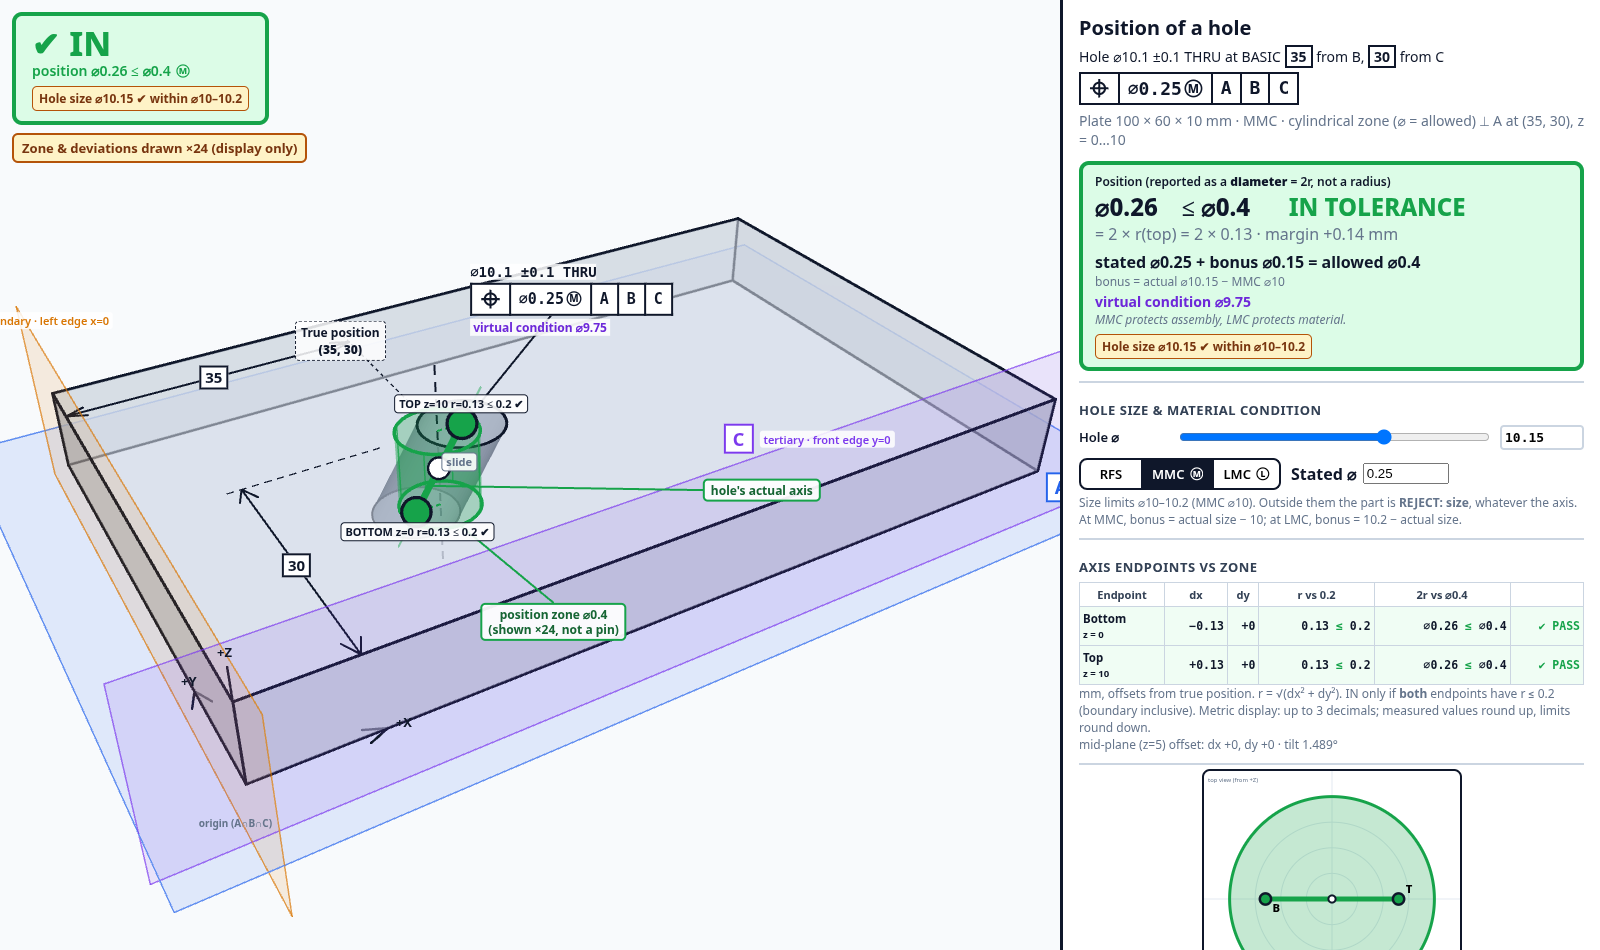
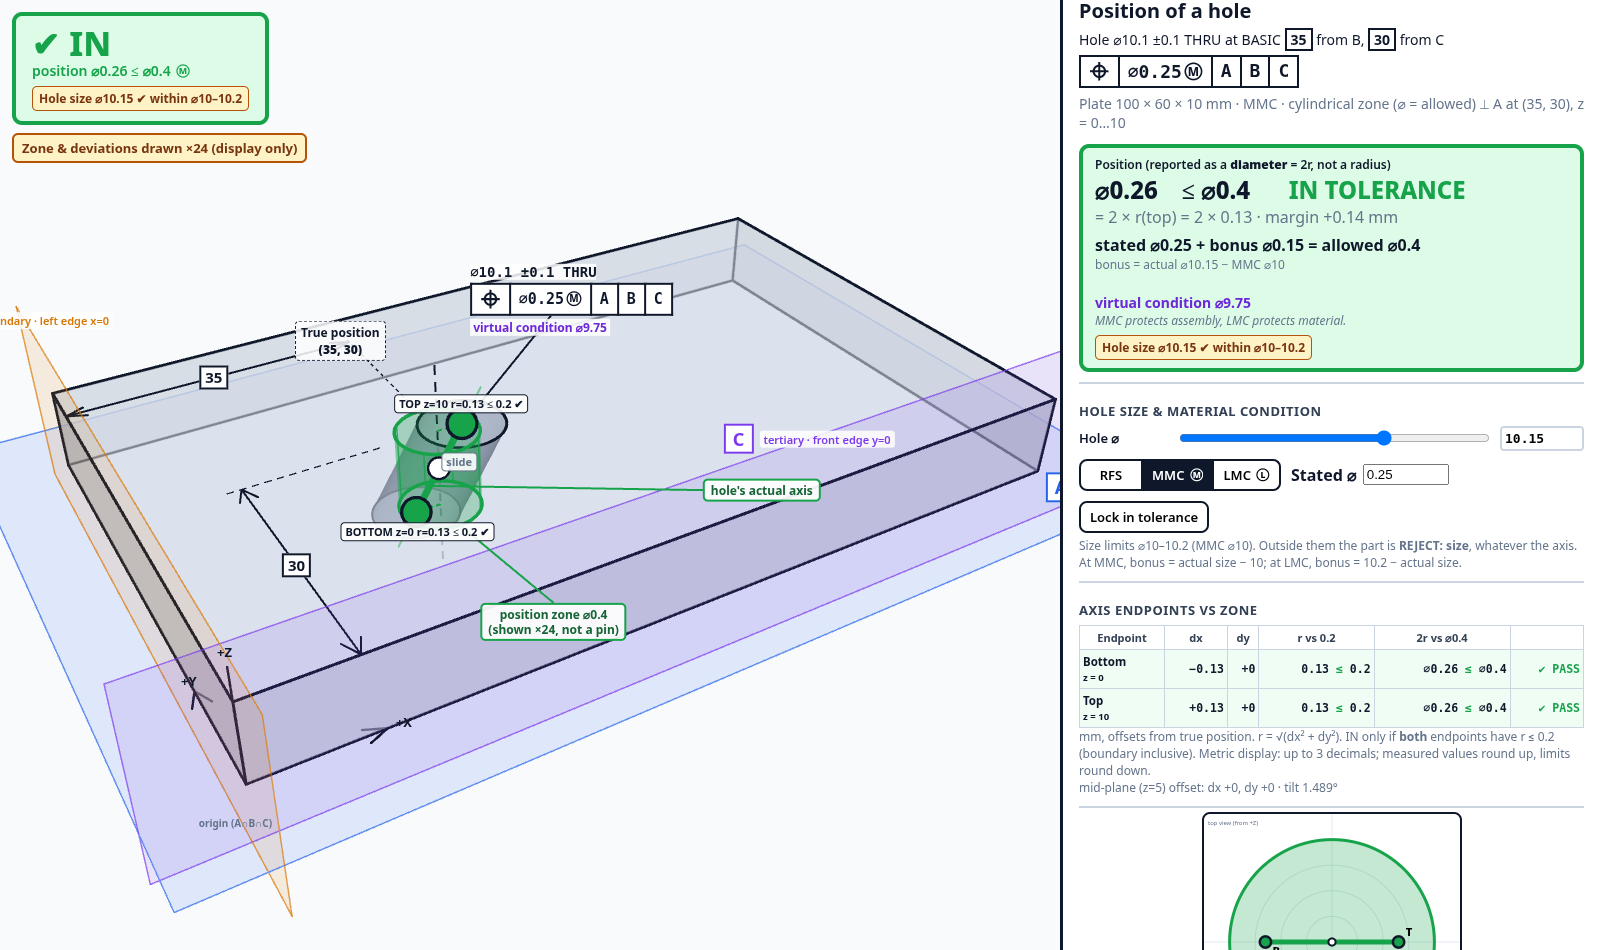
Lock in tolerance: per-endpoint drag clamp, no re-clamp on shrink + shrink note, inward-only projection when outside; tests and browser checks

Changed region(s): [[0.6562, 0.4274, 1.0, 1.0], [0.6562, 0.0, 1.0, 0.3968], [0.9375, 0.4579, 0.9688, 0.4884]]

diff --git a/src/main.js b/src/main.js
@@ -1,6 +1,6 @@
 // Wires state -> tolerance math -> 3D scene + UI readout.
 import { SPEC, VIEW, PRESETS } from './config.js';
-import { evaluatePart } from './tolerance.js';
+import { evaluatePart, allowedTolerance, lockDrag, shrinkCausedOut } from './tolerance.js';
 import { fcfHTML } from './fcf.js';
 import { createViewer, isPhone } from './viewer/scene.js';
 import { attachDrag } from './interaction.js';
@@ -18,6 +18,8 @@ const state = {
   size: SPEC.hole.sizeSlider.default, // actual hole diameter (mm)
   modifier: SPEC.position.modifier, // 'RFS' | 'MMC' | 'LMC'
   stated: SPEC.position.tolerance, // stated position tolerance ⌀ (mm), editable
+  lock: false, // "Lock in tolerance": user drags/tilts can't take an endpoint out of the allowed zone
+  shrinkFrom: null, // allowed ⌀ before a zone shrink that happened while locked (for the note)
 };
 const q3 = (v) => Math.round(v * 1e3) / 1e3; // UI inputs in 0.001 mm (metric display)
 const clampSize = (v) => q3(Math.max(SPEC.hole.sizeSlider.min, Math.min(SPEC.hole.sizeSlider.max, v)));
@@ -46,15 +48,16 @@ if (isPhone()) viewer.zoomToHole();
 document.getElementById('drawing-btn').addEventListener('click', () => { state.drawing = !state.drawing; refresh(); });
 const ui = createUI(document.getElementById('panel'), {
   clampOffset,
-  onChange: (patch) => setAxis(patch),
+  onChange: (patch) => setAxis(patch, { user: true }),
   onPreset: (id) => applyPreset(id),
   onMagnification: (m) => { state.magnification = m; refresh(); },
   onXray: (on) => { state.xray = on; refresh(); },
   onDrawing: (on) => { state.drawing = on; refresh(); },
-  onSize: (v) => { state.size = clampSize(v); refresh(); },
+  onSize: (v) => setSize(v),
   // A stated ⌀0 is only valid at MMC: block it at RFS (returns false = refused).
-  onModifier: (m) => { if (m === 'RFS' && state.stated <= 0) return false; state.modifier = m; refresh(); return true; },
-  onStated: (v) => { const s = clampStated(v); if (state.modifier === 'RFS' && s <= 0) return false; state.stated = s; refresh(); return true; },
+  onModifier: (m) => setModifier(m),
+  onStated: (v) => setStated(v),
+  onLock: (on) => setLock(on),
   onResetCamera: () => viewer.resetCamera(),
   onZoomHole: () => viewer.zoomToHole(),
 });
@@ -64,15 +67,42 @@ attachDrag({
   controls: viewer.controls,
   handles: viewer.handles,
   getState: () => state,
-  onChange: (patch) => setAxis(patch),
+  onChange: (patch) => setAxis(patch, { user: true }),
   clampOffset,
 });
 
-function setAxis(patch) {
-  if (patch.bottom) state.bottom = { ...state.bottom, ...patch.bottom };
-  if (patch.top) state.top = { ...state.top, ...patch.top };
+const allowedNow = () => allowedTolerance({ stated: state.stated, modifier: state.modifier, actualSize: state.size, mmc: SPEC.hole.mmc, lmc: SPEC.hole.lmc }).allowed;
+
+// user = a drag or tilt/offset control: clamped when locked. Presets are not.
+function setAxis(patch, { user = false } = {}) {
+  for (const k of ['bottom', 'top']) {
+    if (!patch[k]) continue;
+    const next = { ...state[k], ...patch[k] };
+    state[k] = user && state.lock ? lockDrag({ prev: state[k], next, allowed: allowedNow() }) : next;
+  }
+  // A preset moves the axis wholesale: any OUT is now the axis's doing. A locked
+  // drag can't push an outside endpoint further out, so the shrink note stays.
+  if (!user || !state.lock) state.shrinkFrom = null;
   refresh();
 }
+
+// Size / mode / stated changes never move the axis. If the zone shrinks while
+// locked, remember the previous allowed value so the note can explain an OUT.
+function changeZone(fn) {
+  const before = allowedNow();
+  const ok = fn();
+  if (ok === false) return false;
+  const now = allowedNow();
+  if (state.lock && now < before) state.shrinkFrom = Math.max(state.shrinkFrom ?? 0, before);
+  else if (now >= (state.shrinkFrom ?? Infinity)) state.shrinkFrom = null;
+  refresh();
+  return true;
+}
+const setSize = (v) => changeZone(() => { state.size = clampSize(v); });
+const setModifier = (m) => changeZone(() => { if (m === 'RFS' && state.stated <= 0) return false; state.modifier = m; });
+const setStated = (v) => changeZone(() => { const s = clampStated(v); if (state.modifier === 'RFS' && s <= 0) return false; state.stated = s; });
+const setLock = (on) => { state.lock = !!on; if (!state.lock) state.shrinkFrom = null; refresh(); };
+export const shrinkNoteFor = (s, res) => res.verdict === 'OUT' && shrinkCausedOut({ rBottom: res.bottom.r, rTop: res.top.r, allowedBefore: s.shrinkFrom, allowedNow: res.tolerance });
 
 function applyPreset(id) {
   const p = PRESETS.find((x) => x.id === id);
@@ -89,6 +119,7 @@ function refresh() {
   const btn = document.getElementById('drawing-btn');
   btn.setAttribute('aria-pressed', String(state.drawing));
   btn.textContent = state.drawing ? 'Hide drawing' : 'Show drawing';
+  last.shrinkNote = shrinkNoteFor(state, last);
   ui.render(state, last);
 }
 refresh();
@@ -101,9 +132,11 @@ window.gdt = {
   result: () => last,
   setMagnification: (m) => { state.magnification = m; refresh(); },
   setDrawing: (on) => { state.drawing = !!on; refresh(); },
-  setSize: (v) => { state.size = clampSize(v); refresh(); },
-  setModifier: (m) => { if (m === 'RFS' && state.stated <= 0) return false; state.modifier = m; refresh(); return true; },
-  setStated: (v) => { const s = clampStated(v); if (state.modifier === 'RFS' && s <= 0) return false; state.stated = s; refresh(); return true; },
+  setSize,
+  setModifier,
+  setLock,
+  setStated,
+  dragAxis: (patch) => setAxis(patch, { user: true }), // same path as a handle drag / tilt control
   _debug: { handles: viewer.handles, camera: viewer.camera, canvas: viewer.domElement, controls: viewer.controls },
   ready: true,
 };

diff --git a/tests/lock.test.js b/tests/lock.test.js
@@ -1,0 +1,84 @@
+import { test } from 'node:test';
+import assert from 'node:assert/strict';
+import { lockDrag, shrinkCausedOut, LOCK_EPS, evaluatePart, allowedTolerance } from '../src/tolerance.js';
+import { SPEC } from '../src/config.js';
+import { fmtAgainst, fmtLimit } from '../src/format.js';
+import { SHRINK_NOTE } from '../src/ui.js';
+
+const H = SPEC.hole;
+const TP = { x: 35, y: 30 };
+const r = (p) => Math.hypot(p.dx, p.dy);
+const allowedAt = (size, modifier, stated = 0.25) => allowedTolerance({ stated, modifier, actualSize: size, mmc: H.mmc, lmc: H.lmc }).allowed;
+const evalAx = (ax, size, modifier, stated = 0.25) => evaluatePart({
+  truePosition: TP, bottom: { x: TP.x + ax.bottom.dx, y: TP.y + ax.bottom.dy }, top: { x: TP.x + ax.top.dx, y: TP.y + ax.top.dy },
+  thickness: 10, stated, modifier, actualSize: size, mmc: H.mmc, lmc: H.lmc,
+});
+const O = { dx: 0, dy: 0 };
+
+test('clamp at the boundary: r <= allowed/2 − eps, direction kept; inside moves untouched', () => {
+  const c = lockDrag({ prev: O, next: { dx: 0.3, dy: 0.4 }, allowed: 0.25 });
+  assert.ok(r(c) <= 0.125 - LOCK_EPS && r(c) > 0.123);
+  assert.ok(Math.abs(c.dy / c.dx - 4 / 3) < 0.02, 'direction kept');
+  assert.deepEqual(lockDrag({ prev: O, next: { dx: 0.1, dy: -0.05 }, allowed: 0.25 }), { dx: 0.1, dy: -0.05 });
+  assert.deepEqual(lockDrag({ prev: O, next: { dx: 0.2, dy: 0 }, allowed: 0 }), { dx: 0, dy: 0 });
+});
+
+test('endpoints clamp separately: tilting right up to the edge works', () => {
+  const top = lockDrag({ prev: O, next: { dx: 0.4, dy: 0 }, allowed: 0.25 });
+  const bottom = lockDrag({ prev: O, next: { dx: -0.4, dy: 0 }, allowed: 0.25 });
+  assert.deepEqual([top, bottom], [{ dx: 0.124, dy: 0 }, { dx: -0.124, dy: 0 }]);
+  const v = evalAx({ top, bottom }, 10.1, 'RFS');
+  assert.equal(v.verdict, 'IN');
+  assert.ok(v.tilt > 1.4, 'full edge-to-edge tilt allowed');
+});
+
+test('locked drags + size OK -> verdict always IN (random drag sequences, all modes)', () => {
+  let seed = 7; const rnd = () => ((seed = (seed * 16807) % 2147483647) / 2147483647) * 0.8 - 0.4;
+  for (const m of ['RFS', 'MMC', 'LMC']) for (const s of [10, 10.05, 10.123, 10.2]) for (const st of m === 'RFS' ? [0.001, 0.25] : [0, 0.25]) {
+    const allowed = allowedAt(s, m, st); let ax = { bottom: O, top: O };
+    for (let i = 0; i < 60; i++) {
+      const k = i % 2 ? 'top' : 'bottom';
+      ax = { ...ax, [k]: lockDrag({ prev: ax[k], next: { dx: Math.round(rnd() * 1e3) / 1e3, dy: Math.round(rnd() * 1e3) / 1e3 }, allowed }) };
+      const v = evalAx(ax, s, m, st);
+      assert.equal(v.verdict, 'IN', `${m} ${s} ${st} step ${i}`);
+      // display: the shown position never exceeds the shown limit
+      assert.ok(Number(fmtAgainst(v.deviation, v.tolerance, true)) <= Number(fmtLimit(v.tolerance)));
+    }
+  }
+});
+
+test('locked + size rejected: position still clamped, verdict stays REJECT_SIZE', () => {
+  const top = lockDrag({ prev: O, next: { dx: 0.4, dy: 0 }, allowed: allowedAt(10.22, 'MMC') });
+  assert.ok(r(top) <= 0.125);
+  assert.equal(evalAx({ top, bottom: O }, 10.22, 'MMC').verdict, 'REJECT_SIZE');
+});
+
+test('NO re-clamp on shrink: the axis stays put and reads OUT; the note explains it', () => {
+  const top = lockDrag({ prev: O, next: { dx: 0.4, dy: 0 }, allowed: allowedAt(10.2, 'MMC') }); // r 0.224
+  const ax = { top, bottom: O };
+  assert.equal(evalAx(ax, 10.2, 'MMC').verdict, 'IN');
+  const v = evalAx(ax, 10.0, 'MMC'); // zone ⌀0.45 -> ⌀0.25, axis untouched
+  assert.deepEqual(top, { dx: 0.224, dy: 0 });
+  assert.equal(v.verdict, 'OUT');
+  assert.equal(shrinkCausedOut({ rBottom: v.bottom.r, rTop: v.top.r, allowedBefore: 0.45, allowedNow: 0.25 }), true);
+  assert.equal(SHRINK_NOTE, 'zone shrank: less bonus at this size');
+});
+
+test('shrink note only when the shrink caused the OUT', () => {
+  const f = (r, b, n) => shrinkCausedOut({ rBottom: 0, rTop: r, allowedBefore: b, allowedNow: n });
+  assert.equal(f(0.2, 0.45, 0.25), true);
+  assert.equal(f(0.1, 0.45, 0.25), false, 'still IN after shrink');
+  assert.equal(f(0.3, 0.45, 0.25), false, 'was already OUT before');
+  assert.equal(f(0.2, null, 0.25), false, 'no shrink recorded (lock off)');
+  assert.equal(f(0.2, 0.25, 0.45), false, 'zone grew');
+});
+
+test('outside + locked: a drag may only reduce the radial offset; once inside, normal clamp', () => {
+  const allowed = 0.25; const out = { dx: 0.2, dy: 0 }; // r 0.2 > 0.125 (zone shrank under it)
+  assert.ok(r(lockDrag({ prev: out, next: { dx: 0.3, dy: 0 }, allowed })) <= 0.2 + 1e-12, 'outward refused');
+  assert.ok(r(lockDrag({ prev: out, next: { dx: 0.2, dy: 0.1 }, allowed })) <= 0.2 + 1e-12, 'sideways cannot grow r');
+  assert.deepEqual(lockDrag({ prev: out, next: { dx: 0.15, dy: 0 }, allowed }), { dx: 0.15, dy: 0 }, 'inward allowed');
+  const inside = lockDrag({ prev: out, next: { dx: 0.05, dy: 0 }, allowed });
+  assert.deepEqual(inside, { dx: 0.05, dy: 0 });
+  assert.ok(r(lockDrag({ prev: inside, next: { dx: 0.3, dy: 0 }, allowed })) <= 0.125 - LOCK_EPS, 'normal clamp again');
+});

diff --git a/src/ui.js b/src/ui.js
@@ -12,12 +12,14 @@ export const sizeNote = (size) => size.sizeOk
 export const STATUS = { IN: 'IN TOLERANCE', OUT: 'OUT OF TOLERANCE', REJECT_SIZE: 'REJECT: size', INVALID_TOL: 'INVALID: ⌀0 at RFS' };
 /** Shown when a stated ⌀0 is refused at RFS (Sally). */
 /** Teaching line shown (small) at MMC and LMC. */
+/** Lock on, zone shrank (size / mode / stated) and that shrink caused the OUT. */
+export const SHRINK_NOTE = 'zone shrank: less bonus at this size';
 export const TEACH = 'MMC protects assembly, LMC protects material.';
 export const ZERO_REASON = '⌀0 is only meaningful at MMC or LMC, where bonus supplies the tolerance.';
 const BADGE = { IN: '✔ IN', OUT: '✘ OUT', REJECT_SIZE: '✘ REJECT: size', INVALID_TOL: '✘ INVALID' };
 const SVGNS = 'http://www.w3.org/2000/svg';
 
-export function createUI(root, { onChange, onPreset, onMagnification, onXray, onDrawing, onSize, onModifier, onStated, onResetCamera, onZoomHole, clampOffset }) {
+export function createUI(root, { onChange, onPreset, onMagnification, onXray, onDrawing, onSize, onModifier, onStated, onLock, onResetCamera, onZoomHole, clampOffset }) {
   root.innerHTML = template();
   const $ = (sel) => root.querySelector(sel);
 
@@ -56,6 +58,7 @@ export function createUI(root, { onChange, onPreset, onMagnification, onXray, on
       else msg('');
     });
   }
+  $('#lock-btn').addEventListener('click', () => onLock($('#lock-btn').getAttribute('aria-pressed') !== 'true'));
   $('#n-stated').addEventListener('change', (e) => {
     const v = Number(e.target.value);
     if (!Number.isFinite(v) || onStated(v) === false) {
@@ -81,6 +84,8 @@ export function createUI(root, { onChange, onPreset, onMagnification, onXray, on
     if (document.activeElement !== $('#n-size')) $('#n-size').value = fmt(state.size);
     lastStated = fmt(state.stated);
     if (document.activeElement !== $('#n-stated')) $('#n-stated').value = lastStated;
+    $('#shrink-note').style.visibility = res.shrinkNote ? 'visible' : 'hidden';
+    $('#lock-btn').setAttribute('aria-pressed', String(!!state.lock));
     for (const m of ['RFS', 'MMC', 'LMC']) $(`#mod-${m.toLowerCase()}`).setAttribute('aria-pressed', String(state.modifier === m));
     const TOL = res.tolerance; // allowed (stated + bonus)
     const R = res.radius;
@@ -259,6 +264,7 @@ function template() {
     <div id="pos-detail" class="muted"></div>
     <div id="tol-line" class="tol-line"></div>
     <div id="bonus-detail" class="muted small"></div>
+    <div id="shrink-note" class="shrink-note" style="visibility:hidden">${SHRINK_NOTE}</div>
     <div id="vc-line" class="vc-line"><span id="vc-text"></span><span id="rc-text" class="rc"></span></div>
     <div id="teach-line" class="muted small teach">${TEACH}</div>
     <div class="size-note"></div>
@@ -270,6 +276,7 @@ function template() {
     <div class="mc-row">
       <span class="seg" role="group" aria-label="Material condition"><button id="mod-rfs" type="button" aria-pressed="true">RFS</button><button id="mod-mmc" type="button" aria-pressed="false">MMC ${MMC_SYM}</button><button id="mod-lmc" type="button" aria-pressed="false">LMC ${LMC_SYM}</button></span>
       <label class="stated"><span>Stated ⌀</span><input type="number" id="n-stated" min="0" max="1" step="0.001"/></label>
+      <button id="lock-btn" type="button" class="lock-btn" aria-pressed="false" title="Endpoints cannot leave the allowed zone (bonus included)">Lock in tolerance</button>
     </div>
     <div id="mc-msg" class="mc-msg" role="status"></div>
     <div class="muted small">Size limits ${SIZE_LIMITS} (MMC ⌀${fmt(SPEC.hole.mmc)}). Outside them the part is <b>REJECT: size</b>, whatever the axis. At MMC, bonus = actual size − ${fmt(SPEC.hole.mmc)}; at LMC, bonus = ${fmt(SPEC.hole.lmc)} − actual size.</div>

diff --git a/src/tolerance.js b/src/tolerance.js
@@ -171,3 +171,49 @@ export function evaluatePart({ truePosition, bottom, top, thickness, stated, mod
   const verdict = !tol.statedValid ? 'INVALID_TOL' : !tol.sizeOk ? 'REJECT_SIZE' : pos.inTolerance ? 'IN' : 'OUT';
   return { ...pos, size: tol, verdict, accept: verdict === 'IN' };
 }
+
+// ---------------------------------------------------------------------------
+// "Lock in tolerance" (Will; spec revised by Sally and Gleeb)
+// ---------------------------------------------------------------------------
+
+/** Tiny margin kept inside the zone boundary (mm). */
+export const LOCK_EPS = 1e-6;
+
+const truncGrid = (v, grid) => { const g = 1 / grid; return (Math.trunc(v * g + Math.sign(v) * 1e-9) / g) || 0; };
+/** Scale p radially to radius rMax (direction kept), then truncate toward zero onto the grid (r can only shrink). */
+const toRadius = (p, rMax, grid) => {
+  const r = Math.hypot(p.dx, p.dy);
+  if (r <= rMax) return { dx: p.dx, dy: p.dy };
+  const k = r > 0 ? rMax / r : 0;
+  return { dx: truncGrid(p.dx * k, grid), dy: truncGrid(p.dy * k, grid) };
+};
+
+/**
+ * One endpoint, one user drag/tilt step, with the lock on. Pure.
+ * - prev inside (r <= allowed/2 − eps): next is clamped radially to allowed/2 − eps.
+ * - prev outside (the zone shrank under it, or a preset put it there): the drag
+ *   may only REDUCE its radial offset. A larger next is pulled back to r(prev)
+ *   (direction of next kept), so it can slide around or come inward, never out.
+ *   Once inside, the normal clamp applies on the next step.
+ * Each endpoint is handled separately, so tilting right up to the edge works.
+ * The zone is convex, so two endpoints inside keep the whole axis inside.
+ */
+export function lockDrag({ prev, next, allowed, eps = LOCK_EPS, grid = 1e-3 }) {
+  assertFinite({ allowed, pdx: prev.dx, pdy: prev.dy, ndx: next.dx, ndy: next.dy });
+  if (allowed < 0) throw new RangeError('allowed must be >= 0');
+  const rMax = Math.max(0, allowed / 2 - eps);
+  const rPrev = Math.hypot(prev.dx, prev.dy);
+  return toRadius(next, rPrev <= rMax ? rMax : Math.max(rMax, rPrev), grid);
+}
+
+/**
+ * Should the "zone shrank: less bonus at this size" note show? Pure.
+ * True only when the axis would be IN at the allowed value from before the
+ * shrink (taken while the lock was on) and is OUT at the current allowed value,
+ * i.e. the shrink, not the axis, caused the OUT.
+ */
+export function shrinkCausedOut({ rBottom, rTop, allowedBefore, allowedNow }) {
+  if (allowedBefore == null || !(allowedNow < allowedBefore)) return false;
+  const r = Math.max(rBottom, rTop);
+  return r <= allowedBefore / 2 + EPS && r > allowedNow / 2 + EPS;
+}

diff --git a/styles.css b/styles.css
@@ -205,3 +205,10 @@ button:hover { background: #e2e8f0; }
 @media (max-width: 700px), (max-height: 500px) {
   .mc .seg button { min-height: 40px; min-width: 56px; }
 }
+.mc .lock-btn { border-radius: 8px; }
+.mc .lock-btn[aria-pressed="true"] { background: #0f766e; border-color: #0f766e; color: #fff; }
+@media (max-width: 700px), (max-height: 500px) {
+  .mc .lock-btn { min-height: 40px; min-width: 40px; }
+}
+.shrink-note { font: 700 13px system-ui; color: #b91c1c; }
+.shrink-note::before { content: "⚠ "; }

diff --git a/ZONE.md b/ZONE.md
@@ -285,3 +285,20 @@ phone chip and 3D drawing) shows Ⓛ at LMC. Tests: `tests/lmc.test.js`.
 At the default tolerance, the VC labels read **⌀9.75 at MMC** and **⌀10.45 at LMC**, and the LMC resultant condition reads **⌀9.55**.
 They stay unchanged while the size slider moves from ⌀10.00 to ⌀10.22 (checked
 in the panel and in the drawing). LMC ⌀10.05 gives bonus 0.15 and allowed 0.4.
+
+## 10. Lock in tolerance (Will; spec revised by Sally and Gleeb)
+
+A **"Lock in tolerance"** toggle, off by default, sits beside the stated
+tolerance (at least 40 px on phones). The math is pure, in `src/tolerance.js`
+(`lockDrag`, `shrinkCausedOut`). Tests: `tests/lock.test.js`. Browser checks:
+`scripts/screenshots.mjs` (mouse) and `scripts/mobile-check.mjs` (touch, 8 devices).
+
+| Rule | Implementation |
+|---|---|
+| Applies only to **user drags and tilts** (3D handles, inset dots, offset/tilt controls). **Presets are not clamped** | `setAxis(patch, { user: true })` goes through `lockDrag`; presets call `setAxis` without it |
+| Each endpoint is clamped **separately** to radial offset ≤ allowed/2 − ε (ε = 1e-6 mm), using the **current** allowed (bonus included) | Radial scale toward true position (direction kept), then truncated toward zero onto the 0.001 mm grid, which only shrinks r. Tilting edge-to-edge works (e.g. top +0.124, bottom −0.124 at ⌀0.25). The zone is convex, so the whole axis stays inside |
+| **No automatic re-clamp** when the zone shrinks (size, mode or stated) | The axis stays where it is. If it ends up outside, the verdict is a normal **OUT** (red) |
+| Note *"zone shrank: less bonus at this size"* | Shown only when the lock was on during the shrink **and** the shrink caused the OUT: the axis is IN at the pre-shrink allowed and OUT now (`shrinkCausedOut`). A preset or turning the lock off clears it; it hides once the axis is back IN or the zone grows back |
+| Outside + locked: a drag may only **reduce** the radial offset | A step that would increase r is **projected** onto the disc of the current r (direction of the pointer kept), not rejected. Sideways or tangential drags slide around and creep inward, so the handle never sticks. Once inside, the normal clamp applies |
+| Size reject while locked | The position clamp still applies; the verdict stays **REJECT: size** with the gray zone |
+| Display | A locked axis at the edge shows e.g. "position ⌀0.45 ≤ ⌀0.45" (true value 0.4492). The pass display is capped at the shown limit (§4), so it never reads above the limit |

diff --git a/README.md b/README.md
@@ -65,6 +65,7 @@ Chrome at `/usr/bin/google-chrome` (override with `CHROME=/path`).
   size note *"Hole size ⌀10.1 ✔ within ⌀10–10.2"*.
 - **Hole size & material condition** (panel): an actual-size slider (⌀9.95–10.25)
   with a number box, an RFS | MMC | LMC segmented switch (LMC: bonus = 10.20 − size, VC = 10.20 + stated, see ZONE.md §9) and the editable stated tolerance.
+- **Lock in tolerance** toggle (off by default): user drags and tilts can't take an endpoint outside the current allowed zone (each endpoint clamped separately; presets not clamped). If the zone later shrinks (size, mode or stated), the axis stays put and reads OUT with the note "zone shrank: less bonus at this size". Dragging an outside endpoint can only bring it inward (projected, never stuck). See ZONE.md §10.
   A size outside ⌀10–10.2 gives **REJECT: size**. The readout then shows
   *bonus n/a*, and the zone, axis and handles turn neutral gray, with the
   position number kept for information. At MMC the readout
